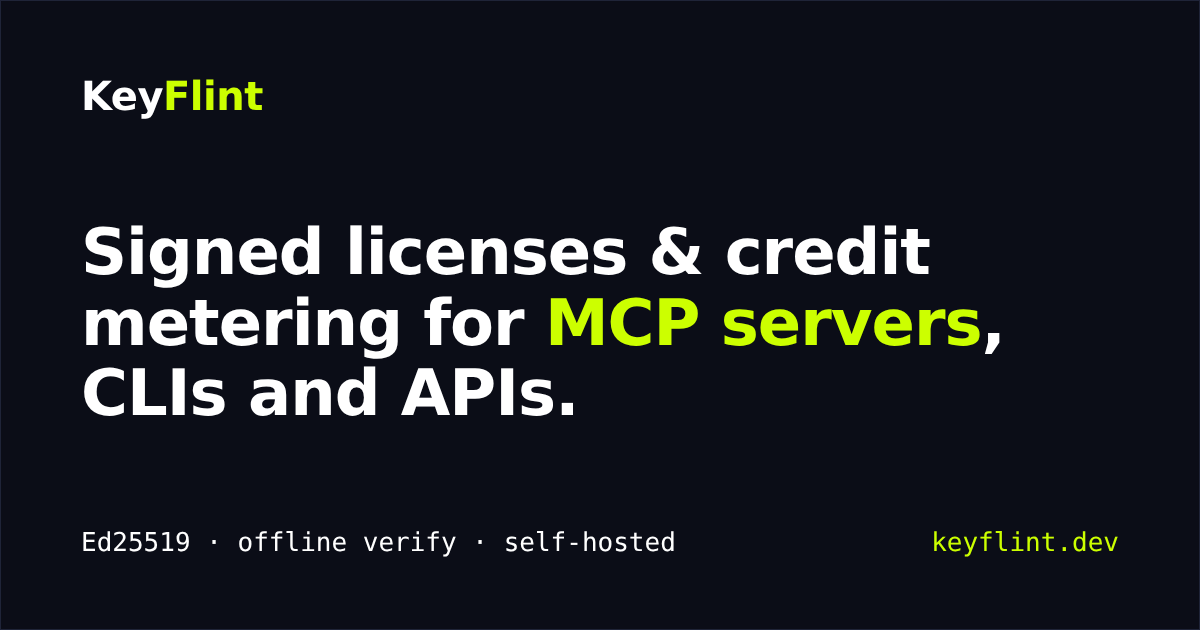
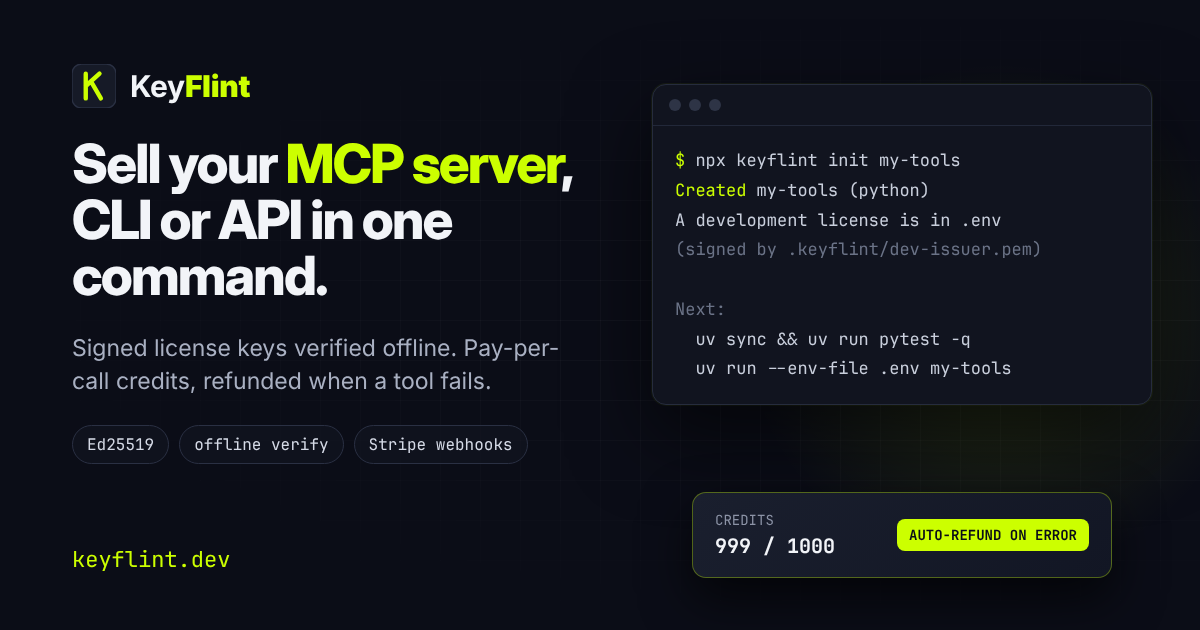
docs(og): tarjeta de vista previa moderna para keyflint.dev (#59)
Nueva og.png 1200x630 con terminal real de `npx keyflint init` y créditos con reembolso; títulos OG/Twitter actualizados y ?v=2 para forzar refresco en X.

Claude-Session: https://claude.ai/code/session_01R4cLjcN64Vy42anBo4Vbni

diff --git a/docs/index.html b/docs/index.html
@@ -18,16 +18,16 @@
     <meta property="og:type" content="website">
     <meta property="og:site_name" content="KeyFlint">
     <meta property="og:url" content="https://keyflint.dev/">
-    <meta property="og:title" content="KeyFlint: signed licenses &amp; credit metering for MCP servers">
+    <meta property="og:title" content="KeyFlint: sell your MCP server, CLI or API in one command">
     <meta property="og:description" content="Self-hosted gateway for Ed25519 licenses your clients verify offline, plus atomic, refundable credit metering for MCP servers, CLIs and APIs. Stripe and LemonSqueezy webhooks included.">
-    <meta property="og:image" content="https://keyflint.dev/og.png">
+    <meta property="og:image" content="https://keyflint.dev/og.png?v=2">
     <meta property="og:image:width" content="1200">
     <meta property="og:image:height" content="630">
-    <meta property="og:image:alt" content="KeyFlint: signed licenses and credit metering for MCP servers, CLIs and APIs.">
+    <meta property="og:image:alt" content="KeyFlint: sell your MCP server, CLI or API in one command. Terminal running npx keyflint init.">
     <meta name="twitter:card" content="summary_large_image">
-    <meta name="twitter:title" content="KeyFlint: signed licenses &amp; credit metering for MCP servers">
-    <meta name="twitter:description" content="Ed25519 licenses verified offline + atomic, refundable credit metering. Self-hosted.">
-    <meta name="twitter:image" content="https://keyflint.dev/og.png">
+    <meta name="twitter:title" content="KeyFlint: sell your MCP server, CLI or API in one command">
+    <meta name="twitter:description" content="Signed license keys verified offline + pay-per-call credits, refunded when a tool fails. npx keyflint init">
+    <meta name="twitter:image" content="https://keyflint.dev/og.png?v=2">
     <link rel="preconnect" href="https://fonts.googleapis.com">
     <link rel="preconnect" href="https://fonts.gstatic.com" crossorigin>
     <link href="https://fonts.googleapis.com/css2?family=IBM+Plex+Sans:wght@400;500;600&family=IBM+Plex+Mono:wght@400;500&display=swap" rel="stylesheet">
